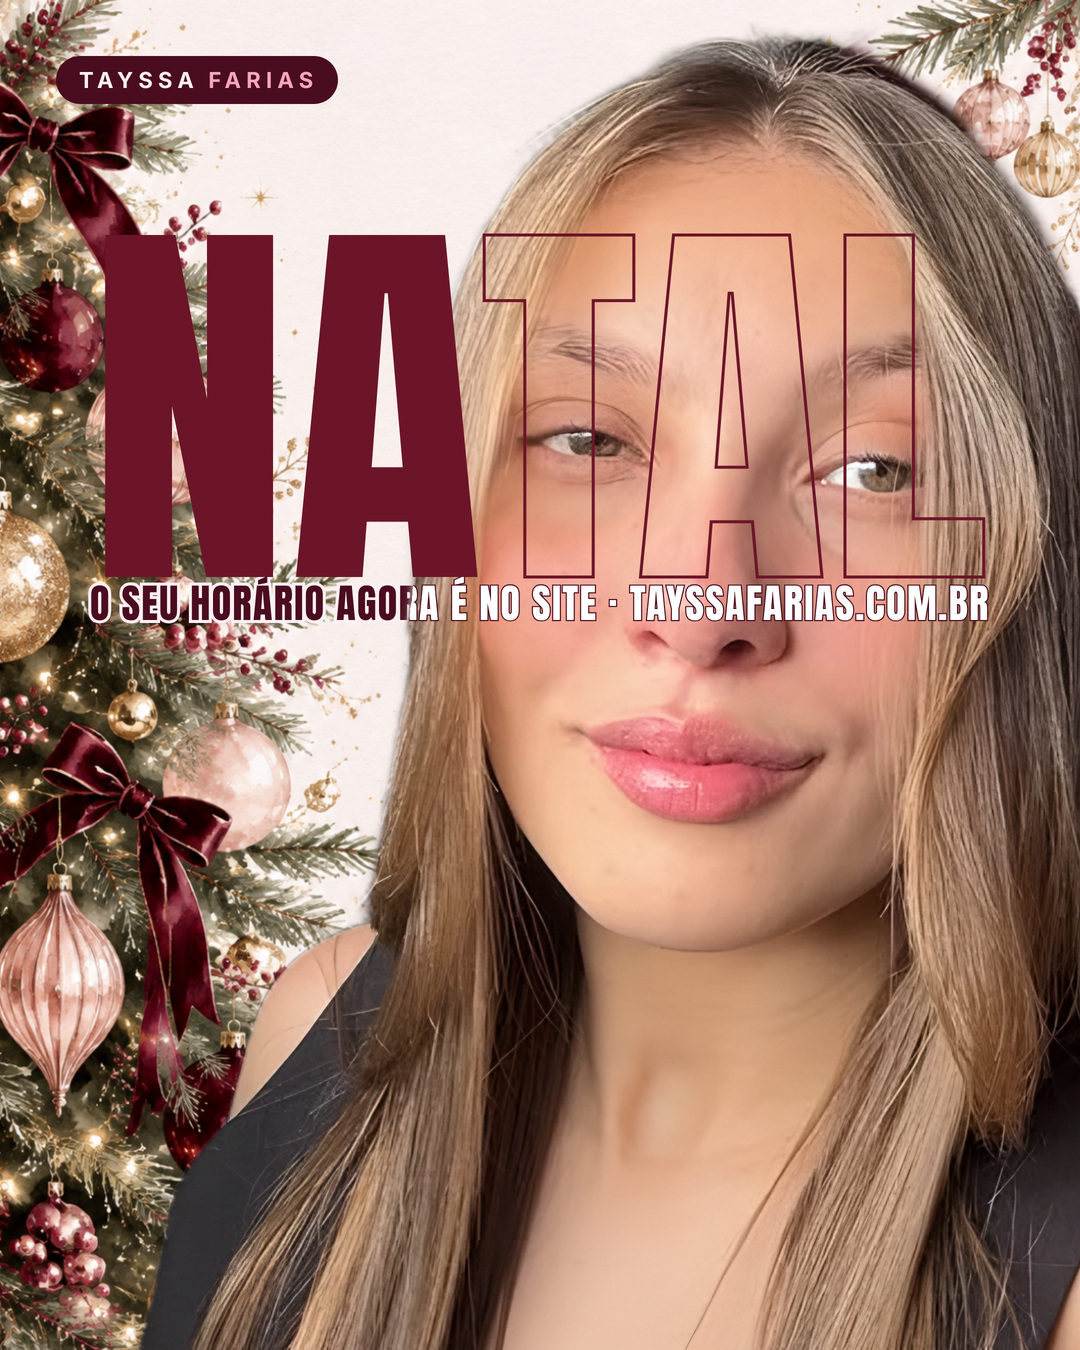
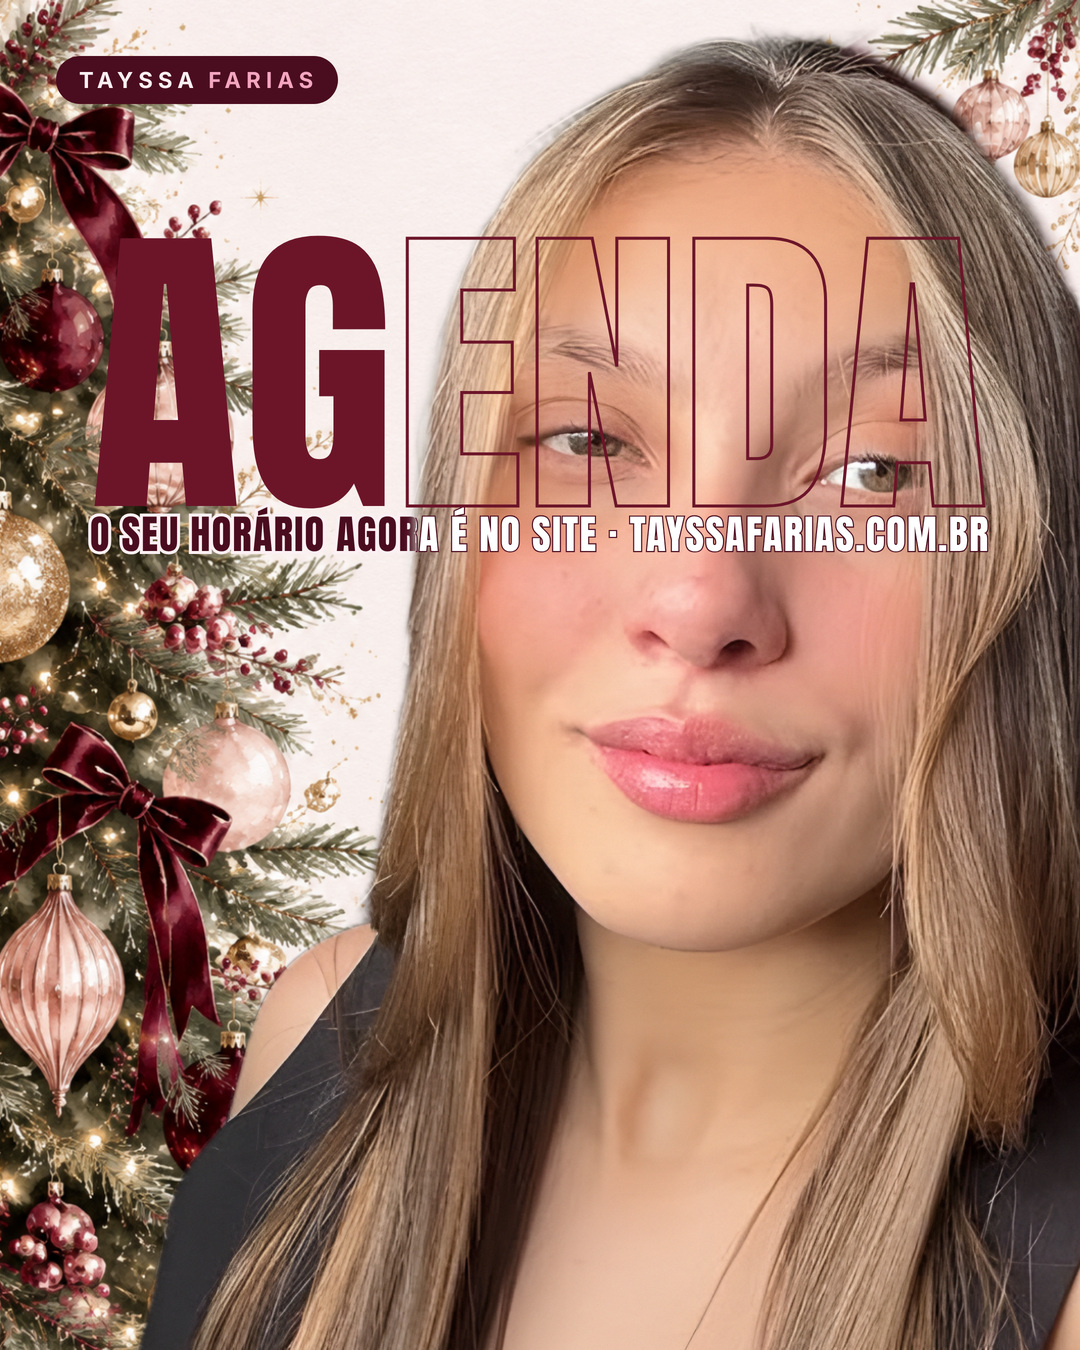
Tayssa: capa do carrossel com AGENDA no lugar de NATAL
"AG" cheio e "ENDA" em contorno sobre o rosto. CHEGOU fica guardada
como capa alternativa; a palavra da capa sai da variável CAPA no gerador.

Claude-Session: https://claude.ai/code/session_01C7Fqj9QNbeqjAG4x5LcgP7

Changed region(s): [[0.0611, 0.1556, 0.9167, 0.4667], [0.8861, 0.1867, 0.9167, 0.2178]]

diff --git a/docs/tayssa/carrossel-natal/README.md b/docs/tayssa/carrossel-natal/README.md
@@ -12,7 +12,7 @@ Post do @1.tayssa anunciando o tayssafarias.com.br. 11 lâminas em 1080 x 1350 (
 
 - **Fundos:** IA do Canva (a chave da kie.ai do ambiente deu 401 e não havia outra). Prompt-base do roteiro em todas, mudando só o pedido de cada lâmina. Três fundos: capa (árvore de um lado, espaço para a foto), internas (detalhe no alto à direita e embaixo à esquerda) e dezembro (vinho com dourado; o primeiro saiu claro e foi refeito trocando o papel claro por vinho). O fechamento usa o fundo da capa espelhado. Arte rascunho com os fundos no Canva: "Fundo de Natal em aquarela" (design `DAHainzdQbk`).
 - **Fotos:** só as reais que a Tayssa mandou. Capa: a selfie do sorriso com a flor ao fundo. Fechamento: a de blusa cinza. A primeira selfie (a do `portrait.jpg`) saiu da capa a pedido do Lucas. Fundo recortado com rembg (`birefnet-portrait`), no lugar do recraft/remove-background da kie. As fotos vieram em 720 px; para o close ficar nítido foram ampliadas 4x com Real-ESRGAN (`RealESRGAN_x4plus`, só nitidez, não redesenha o rosto) e misturadas com 25% da foto original para manter a textura da pele. Lâminas 5 e 8: close dos cílios (`work-01.jpg` e `work-03.jpg`), só olho, sem rosto de cliente.
-- **Capa e fechamento no desenho da referência:** rosto em close, título com parte cheia e parte só em contorno fino passando pelo rosto ("NA" cheio e "TAL" vazado; "AGE" vazado e "NDE" cheio), linha pequena embaixo que fica vinho sobre o fundo e branca com contorno sobre ela (máscara `*-mask.png`, tirada do recorte da foto, com borda firme).
+- **Capa e fechamento no desenho da referência:** rosto em close, título com parte cheia e parte só em contorno fino passando pelo rosto ("AG" cheio e "ENDA" vazado na capa; "AGE" vazado e "NDE" cheio no fechamento), linha pequena embaixo que fica vinho sobre o fundo e branca com contorno sobre ela (máscara `*-mask.png`, tirada do recorte da foto, com borda firme).
 - **Texto:** aplicado em código por cima (Anton nos títulos, Inter no texto), copiado do roteiro. Valores, sinal de R$ 50, 4 h de antecedência, 10 min de tolerância, 48 h para remarcar e a regra do VIP (4 em 70 dias, 15 a 20 entre um e outro) conferidos com o banco e com `lib/tayssa/config.ts` em 10/11/2026.
 - Ícone do WhatsApp: a logo oficial (o mesmo desenho de `components/tayssa/ui/whatsapp.tsx`).
 
